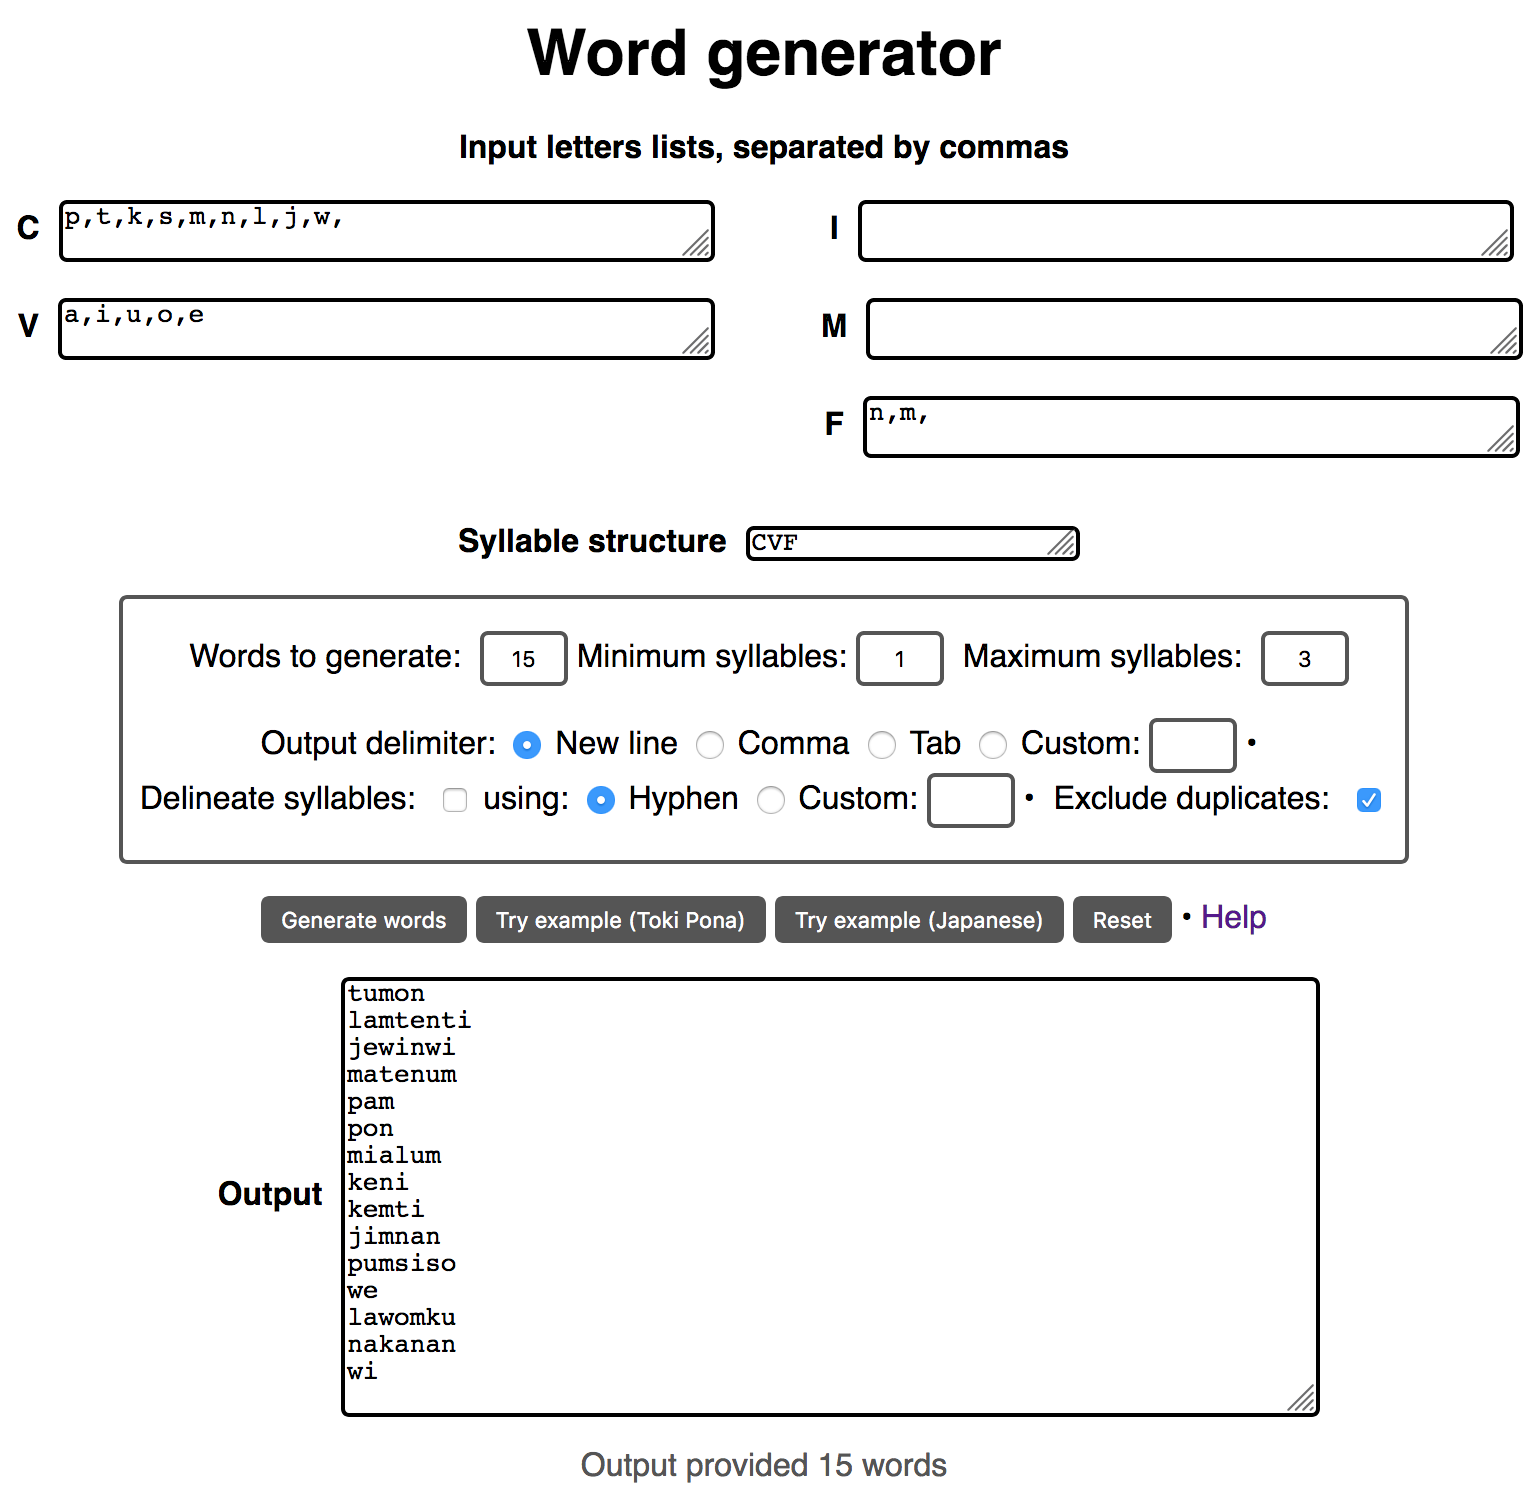
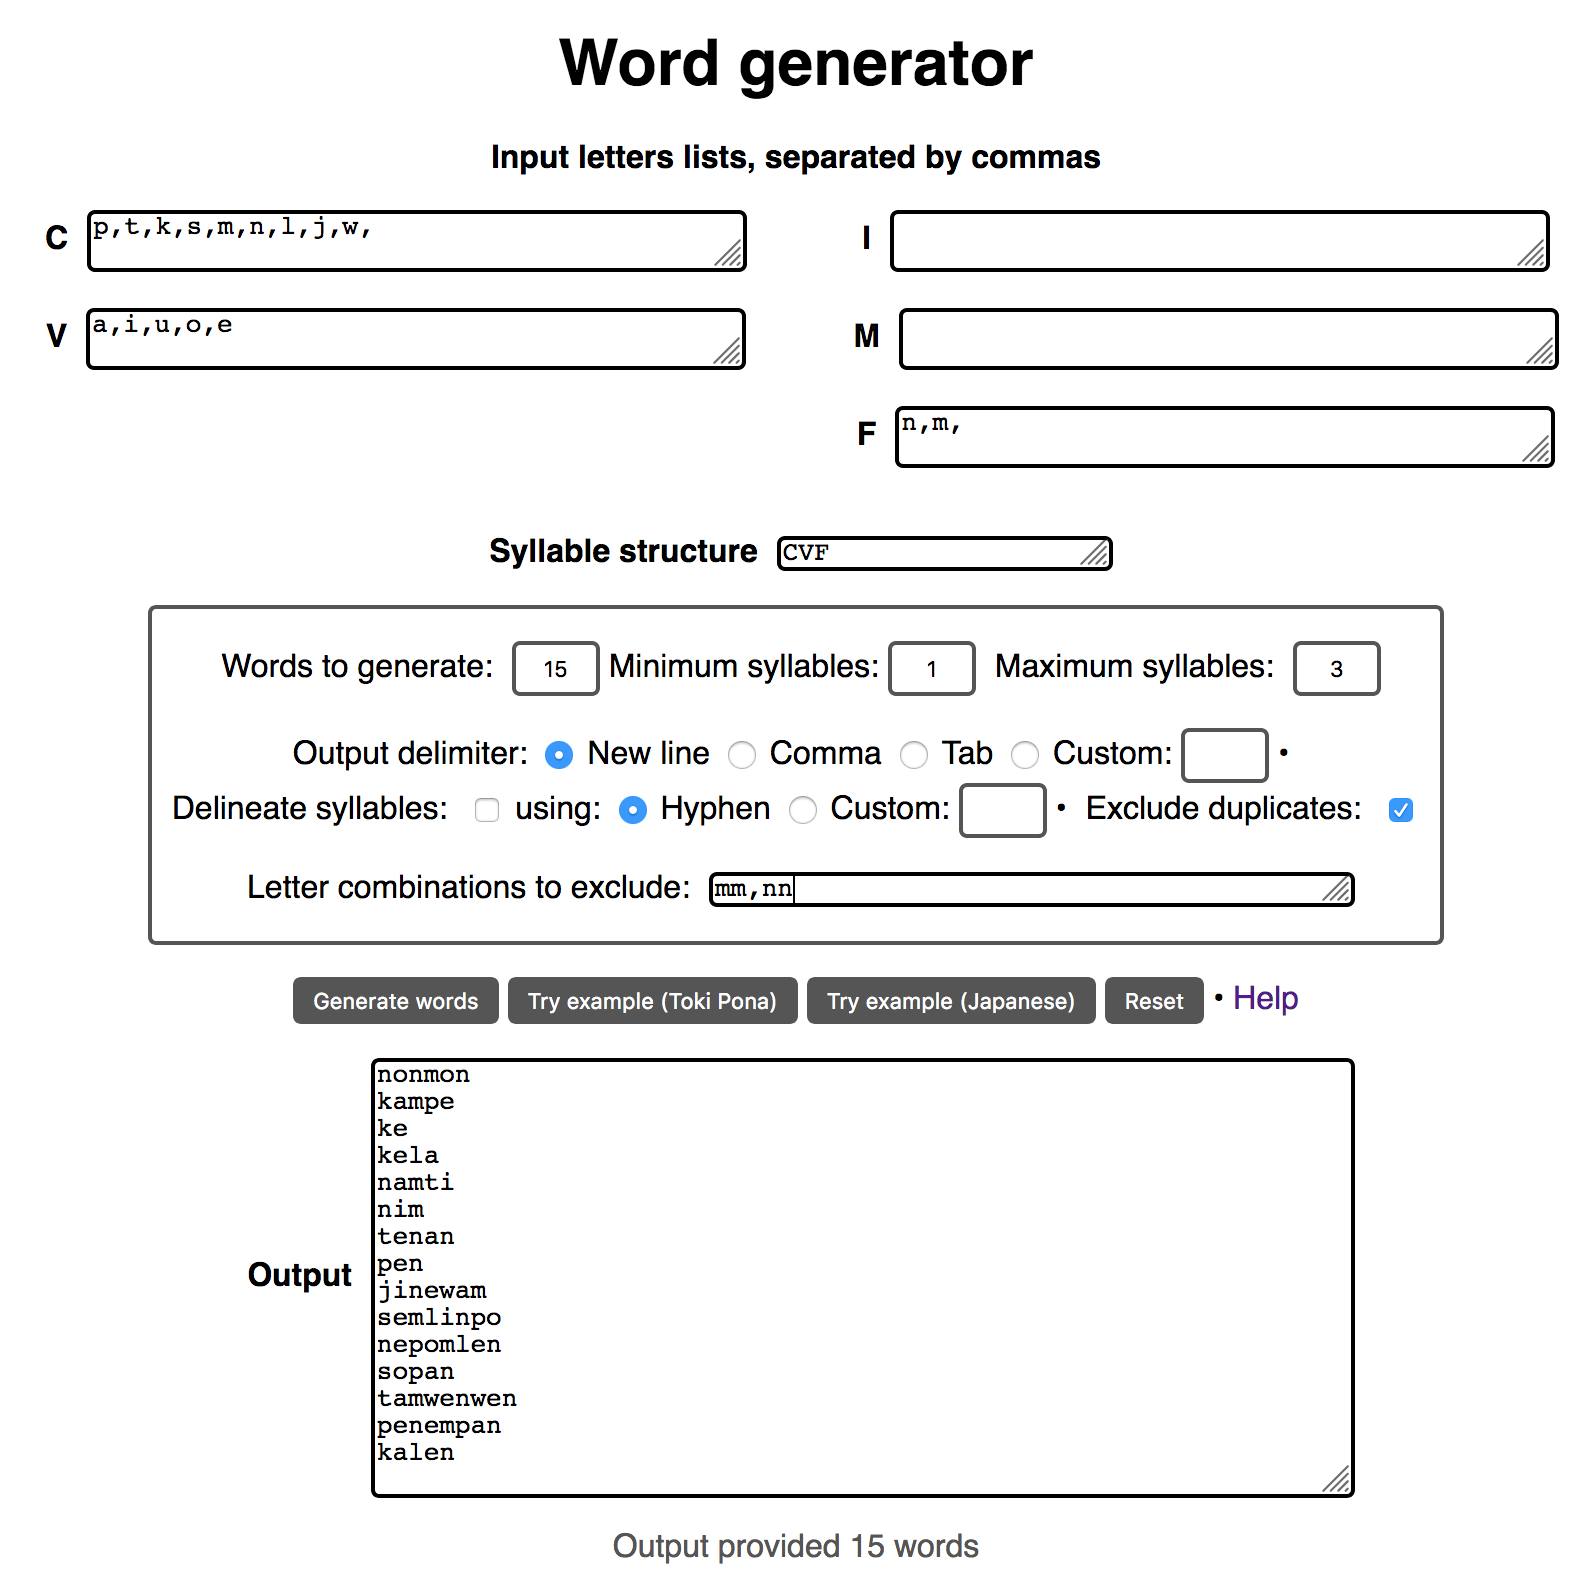
Added check for forbidden clusters

diff --git a/wordgen.js b/wordgen.js
@@ -91,6 +91,13 @@ function genWords(struct,quant,minsyl,maxsyl,c,v,i,m,f) {
 	//			rather than just the C, V, I, M, F
 	// TODO: optional letters (using bracket notation?)
 	
+	// Gather list of forbidden clusters
+	var disallowCombs = document.forms["mainForm"].restrictedLetters.value;
+	var arrDisallow = [];
+	if (disallowCombs != "") {
+		arrDisallow = disallowCombs.split(",");
+	}
+	
 	// Initiate counter for infinite loop protection during duplicate checking
 	var infLoopCounter = 0;
 	
@@ -99,6 +106,9 @@ function genWords(struct,quant,minsyl,maxsyl,c,v,i,m,f) {
 
 		var newWord = "";
 		//console.log("quant no: "+i);
+	
+		// Flag for words containing forbidden clusters
+		var doNotAdd = false;
 		
 		// Choose number of syllables to create
 		var sylToMake = 0;
@@ -155,71 +165,99 @@ function genWords(struct,quant,minsyl,maxsyl,c,v,i,m,f) {
 			}
 		} // j loop
 		
-		// TODO: check against list of forbidden clusters
+		// Check against list of forbidden clusters		
+		for (m=0;m<arrDisallow.length;m++) {
+			if (newWord.includes(arrDisallow[m])) {
+				//console.log("Disallowed combination found: "+arrDisallow[m]+
+				//	" in word: "+newWord);
+				doNotAdd = true;
+			}	
+		} // m loop
 		
-		// TODO: the nested conditionals below include repetition
 		// Check for word uniqueness, if user opts in
-		if (document.getElementById("noduplicates").checked) {
-			//console.log("No duplicates allowed");
-			// Check if generated word is already in output
-			// TODO: improve word boundary detection (currently not foolproof)
-			if (output.includes("\n"+newWord)||output.includes("\n"+newWord)||
-				output.includes("\t"+newWord)) { 
-				//console.log("Duplicate word found: "+newWord+" in "+output);
-				// If duplicate found, do not add to output and run loop again
-				// With small letter lists and many words to generate, this could
-				//		lead to an infinite loop - increment counter to track this
-				infLoopCounter++;
-				// Check if high number of duplicates found
-				if (infLoopCounter<10000) {
-					x--;
-				} else {
-					// Return no output (will lead to error message)
-					//console.log("infLoopCounter: "+infLoopCounter);
-					return "";
-				}
+		// Check if generated word is already in output
+		// TODO: improve word boundary detection (currently not foolproof)
+		if ( ( document.getElementById("noduplicates").checked && 
+			( output.includes("\n"+newWord) || output.includes("\n"+newWord) ||
+			output.includes("\t"+newWord) ) ) || doNotAdd) { 
+			
+			//console.log("Duplicate word found: "+newWord+" in : \n"+output);
+			
+			// If duplicate found, do not add to output and run loop again
+			// With small letter lists and many words to generate, this could
+			//		lead to an infinite loop - increment counter to track this
+			infLoopCounter++;
+			// Check if high number of duplicates found
+			if (infLoopCounter<1000) {
+				x--;
 			} else {
-				console.log("No duplicates found");
-				// Add to output with delimiter after each word, unless after last word
-				if (x<(quant-1)) {
-					if (document.forms["mainForm"].delimiter.value == "newline") {
-						output += newWord+"\n";
-					} else if (document.forms["mainForm"].delimiter.value == "comma") {
-						output += newWord+",";
-					} else if (document.forms["mainForm"].delimiter.value == "tab") {
-						output += newWord+"\t";
-					} else if (document.forms["mainForm"].delimiter.value == "custom") {
-						var customDelim = document.forms["mainForm"].customDelimiter.value;
-						output += newWord+customDelim;
-					}
-				} else {
-					output += newWord
-				}
+				// Return no output (will lead to error message)
+				return "###";
 			}
+			
 		} else {
-			// If user allows duplicates, add to output without further checks
-			//console.log("Duplicates allowed");
-			// Add to output with delimiter after each word, unless after last word
-			if (x<(quant-1)) {
-				if (document.forms["mainForm"].delimiter.value == "newline") {
-					output += newWord+"\n";
-				} else if (document.forms["mainForm"].delimiter.value == "comma") {
-					output += newWord+",";
-				} else if (document.forms["mainForm"].delimiter.value == "tab") {
-					output += newWord+"\t";
-				} else if (document.forms["mainForm"].delimiter.value == "custom") {
-					var customDelim = document.forms["mainForm"].customDelimiter.value;
-					output += newWord+customDelim;
-				}
-			} else {
-				output += newWord
-			}
+			
+			// Add to output with delimiter after each word, not after last word
+			output += addDelimiter(x,quant,newWord);
 		}
-
+	
 	} // x loop (used to be i loop until 'i' was used for the category 'I')
 	
 	return output;
 	
+}
+
+/////////////////////////////////
+
+/*
+*	Adds word delimiter to generated word
+*		'in' is the word to be 
+*		'q' is the number of words to generate - delimiter isn't added after the last word
+*		'curr' is the number of the current word being generated
+*/
+function addDelimiter(curr,q,inWord) {
+
+	//console.log("addDelimiter running on: "+inWord);
+	var out = "";
+	
+	if (curr<(q-1)) {
+		switch (document.forms["mainForm"].delimiter.value) {
+			case "newLine":
+				out = inWord+"\n";
+				break;
+			case "comma":
+				out = inWord+",";
+				break;
+			case "tab":
+				out = inWord+"\t";
+				break;
+			case "custom":
+				var customDelim = document.forms["mainForm"].customDelimiter.value;
+				out = inWord+customDelim;
+				break;
+			default:
+				out = inWord+"\n";
+				break;
+		}
+	} else {
+		out = inWord;
+	}
+	
+	return out;
+}
+
+/////////////////////////////////
+
+/*
+*	
+*/
+
+function checkForMatches (toCheck,toCheckFor) {
+
+	var out = "";
+	
+	return out;
+
 }
 
 /////////////////////////////////
@@ -232,7 +270,7 @@ function example(lang) {
 	document.forms["mainForm"].wordsNum.value = "15";
 	document.forms["mainForm"].minSyl.value = "1"; 
 	document.forms["mainForm"].maxSyl.value = "3"; 
-	console.log("Example lang chosen: "+lang);
+	//console.log("Example lang chosen: "+lang);
 	switch (lang) {
 		case "jp":
 			document.forms["mainForm"].inC.value = 'k,s,t,n,h,w,r,y,';
@@ -241,6 +279,7 @@ function example(lang) {
 			document.forms["mainForm"].inM.value = '';
 			document.forms["mainForm"].inF.value = 'n,';
 			document.forms["mainForm"].struct.value = "CVF"; 
+			document.forms["mainForm"].restrictedLetters.value = "wi,we,wu,yi,ye"; 
 			break;
 		case "tokipona":
 			document.forms["mainForm"].inC.value = 'p,t,k,s,m,n,l,j,w,';
@@ -248,7 +287,8 @@ function example(lang) {
 			document.forms["mainForm"].inI.value = '';
 			document.forms["mainForm"].inM.value = '';
 			document.forms["mainForm"].inF.value = 'n,m,';
-			document.forms["mainForm"].struct.value = "CVF"; 
+			document.forms["mainForm"].struct.value = "CVF";
+			document.forms["mainForm"].restrictedLetters.value = "mm,nn"; 
 			break;
 		default:
 			break;

diff --git a/wordgen.html b/wordgen.html
@@ -47,7 +47,7 @@
 		.label {
 			padding: 0px 5px;
 		}
-		#letter-label, #structure-label, #output-label {
+		#letter-label, #structure-label, #output-label, #restrict-label {
 			font-weight: bold;
 		}
 		#structure {
@@ -62,6 +62,9 @@
 		}
 		#struct-area {
 			width: 20%;
+		}
+		#restrict-area {
+			width: 50%;
 		}
 		.nowrap {
    			white-space: nowrap;
@@ -177,6 +180,12 @@
 					</span>
 					<input type="checkbox" id="noduplicates" class="checkmark" checked>
 				</span>
+				<p>
+					<span class="label" id="param-label">
+						Letter combinations to exclude:</span>
+					<textarea rows="1" name="restrictedLetters" id="restrict-area">
+					</textarea>
+				</p>
 			</p>
 		</div>
 		<p><!--Action buttons-->

diff --git a/README.md b/README.md
@@ -20,6 +20,7 @@ The user also specifies:
 * whether the syllable boundaries should be delineated, and whether with a hyphen, or a user-provided option
 * what delimiter to use for the output list: new line, comma, tab, or a user-provided option
 * whether to make sure generated words are unique within the list (not repeated)
+* which combinations of letters to exclude from generated words
 
 To run the generator, click **Generate words**.
 
@@ -46,10 +47,11 @@ Try the related [phoneme invetory generator](https://github.com/aaa2016/phoneme-
 ## Features yet to be implemented<a name="features"></a>
 
 * Supporting optional letters, eg. **(C)V(C)** or **CV(V)**, or supporting multiple syllable structures (however, note the [workaround](#optionals) above)
-* Supporting phonotactic constraints (ie. combinations not allowed)
 * Automated adjustment of how often each letter from a list is used, rather than all equal frequency (however, note the [workaround](#frequencies) above)
 * Automated adjustment of how often numbers of syllables occur (eg. 1 more often than 2 or 3)
 * Sound change applicator on words after they have been generated
+* Bug fix: check for duplicate words does not handle word boundaries in a foolproof way
+* Bug fix: not all letter combinations excluded if syllables are splid with a delimiter
 
 ## Examples<a name="examples"></a>
 
